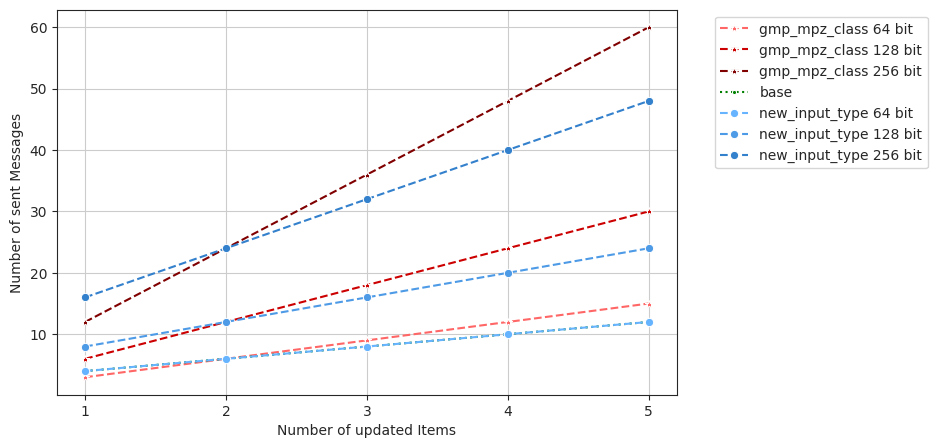
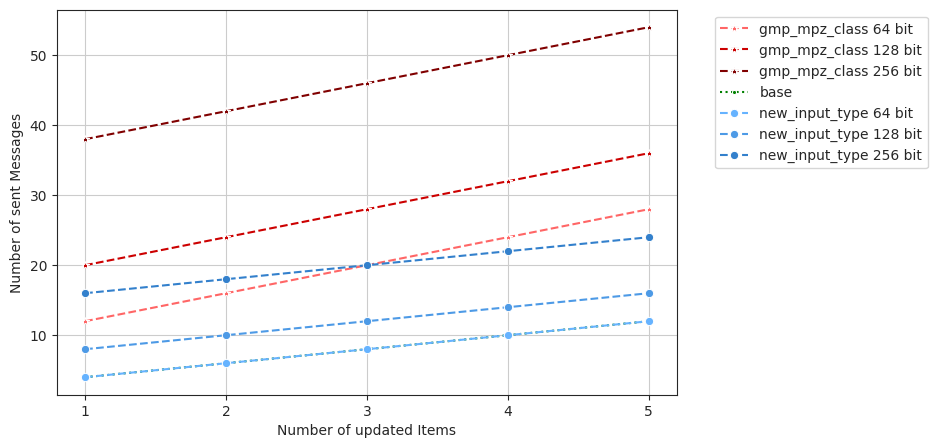
message bytes online neu gemessen

diff --git a/plots/code/online/message_num_online.py b/plots/code/online/message_num_online.py
@@ -22,19 +22,19 @@ df_base = pd.DataFrame({
 
 df_mpz_64 = pd.DataFrame({
     "x": [x1,x2,x3,x4,x5],
-    "y": [1,3,5,7,9],
+    "y": [12,18,22,26,30],
     "Approach": "gmp_mpz_class 64 bit"
 })
 
 df_mpz_128 = pd.DataFrame({
     "x": [x1,x2,x3,x4,x5],
-    "y": [2,6,10,14,18],
+    "y": [26,30,34,38,42],
     "Approach": "gmp_mpz_class 128 bit"
 })
 
 df_mpz_256 = pd.DataFrame({
     "x": [x1,x2,x3,x4,x5],
-    "y": [4,12,20,28,36],
+    "y": [54,58,62,66,70],
     "Approach": "gmp_mpz_class 256 bit"
 })
 
@@ -46,13 +46,13 @@ df_nit_64 = pd.DataFrame({
 
 df_nit_128 = pd.DataFrame({
     "x": [x1,x2,x3,x4,x5],
-    "y": [8,12,16,20,24],
+    "y": [8,10,12,14,16],
     "Approach": "new_input_type 128 bit"
 })
 
 df_nit_256 = pd.DataFrame({
     "x": [x1,x2,x3,x4,x5],
-    "y": [16,24,32,40,48],
+    "y": [16,18,20,22,24],
     "Approach": "new_input_type 256 bit"
 })
 
@@ -87,19 +87,19 @@ df_base = pd.DataFrame({
 
 df_mpz_64 = pd.DataFrame({
     "x": [x1,x2,x3,x4,x5],
-    "y": [3,6,9,12,15],
+    "y": [12,16,20,24,28],
     "Approach": "gmp_mpz_class 64 bit"
 })
 
 df_mpz_128 = pd.DataFrame({
     "x": [x1,x2,x3,x4,x5],
-    "y": [6,12,18,24,30],
+    "y": [20, 24, 28, 32, 36],
     "Approach" : "gmp_mpz_class 128 bit"
 })
 
 df_mpz_256 = pd.DataFrame({
     "x": [x1,x2,x3,x4,x5],
-    "y": [12,24,36,48,60],
+    "y": [38,42,46,50,54],
     "Approach": "gmp_mpz_class 256 bit"
 })
 
@@ -111,13 +111,13 @@ df_nit_64 = pd.DataFrame({
 
 df_nit_128 = pd.DataFrame({
     "x": [x1,x2,x3,x4,x5],
-    "y": [8,12,16,20,24],
+    "y": [8,10,12,14,16],
     "Approach": "new_input_type 128 bit"
 })
 
 df_nit_256 = pd.DataFrame({
     "x": [x1,x2,x3,x4,x5],
-    "y": [16,24,32,40,48],
+    "y": [16,18,20,22,24],
     "Approach": "new_input_type 256 bit"
 })
 

diff --git a/plots/code/online/message_bytes_online.py b/plots/code/online/message_bytes_online.py
@@ -22,19 +22,19 @@ df_base = pd.DataFrame({
 
 df_mpz_64 = pd.DataFrame({
     "x": [x1,x2,x3,x4,x5],
-    "y": [4,8,12,16,20],
+    "y": [8,16,24,32,40],
     "Approach": "gmp_mpz_class 64 bit"
 })
 
 df_mpz_128 = pd.DataFrame({
     "x": [x1,x2,x3,x4,x5],
-    "y": [8,16,24,32,40],
+    "y": [16,32,48,64,80],
     "Approach": "gmp_mpz_class 128 bit"
 })
 
 df_mpz_256 = pd.DataFrame({
     "x": [x1,x2,x3,x4,x5],
-    "y": [16,32,48,64,80],
+    "y": [32,64,96,128,160],
     "Approach": "gmp_mpz_class 256 bit"
 })
 
